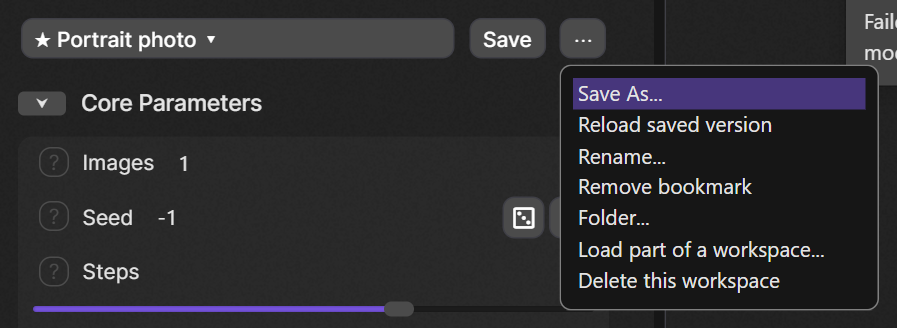
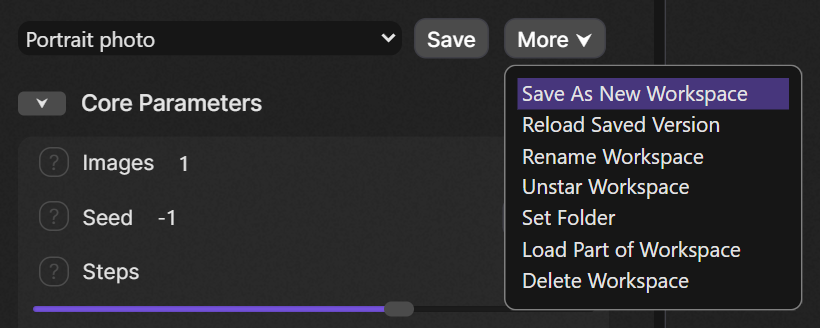
Make the picker a standard SwarmUI dropdown; match Swarm's wording and controls
The picker is now select.auto-dropdown with optgroups for Starred and folders, so it matches every theme. Removes the custom checkmark, star, dot and arrow glyphs and the New workspace row. Menu entries use Swarm's Title Case wording, bookmarks are called stars, and the menu button is More like Swarm's own. Drops the picker screenshot, which a native dropdown can't produce.

diff --git a/Assets/workspaces.js b/Assets/workspaces.js
@@ -1381,43 +1381,45 @@ class HartsyWorkspacesManager {
 
     /**
      * Builds the toolbar element and wires its buttons. Call only from ensureToolbar, which makes sure there is just one.
-     * The picker and the "..." menu are SwarmUI's own popovers (AdvancedPopover), opened on demand, so they match every theme.
+     * The picker is a plain SwarmUI dropdown (select.auto-dropdown) and the menu is SwarmUI's own popover (AdvancedPopover), so both follow every theme.
      * @returns {Element} The new toolbar, not yet placed on the page.
      */
     buildToolbar() {
         let toolbar = createDiv(null, 'hartsy-workspaces-toolbar');
         toolbar.innerHTML = '<div class="hartsy-workspaces-bar">'
-            + '<button class="basic-button hartsy-workspaces-picker" title="Choose a workspace to load">No workspace</button>'
+            + '<select class="auto-dropdown hartsy-workspaces-picker" autocomplete="off" title="Choose a workspace to load"></select>'
             + '<button class="basic-button hartsy-workspaces-save" title="Save the current settings (Shift+S)">Save</button>'
-            + '<span class="hartsy-workspaces-modified" title="The settings differ from the saved workspace" hidden>● Modified</span>'
-            + '<button class="basic-button hartsy-workspaces-more" title="More actions" aria-label="More workspace actions">⋯</button>'
+            + '<span class="hartsy-workspaces-modified" title="The settings differ from the saved workspace" hidden>Modified</span>'
+            + '<button class="basic-button hartsy-workspaces-more" title="More workspace actions">More &#x2B9F;</button>'
             + '</div>'
             + '<div class="parens hartsy-workspaces-status" role="status"></div>';
         toolbar.querySelector('.hartsy-workspaces-save').addEventListener('click', () => {
             this.saveCurrent();
         });
-        // A click on a button whose own popover is open closes it (SwarmUI does that before this runs), so remember on mousedown whether it was open, to toggle instead of reopening. A click on the other button just switches popovers.
-        let wire = (selector, popoverId, open) => {
-            let button = toolbar.querySelector(selector);
-            let wasOpen = false;
-            button.addEventListener('mousedown', () => {
-                wasOpen = this.isPopoverOpen() && this.activePopover.id == popoverId;
-            });
-            button.addEventListener('click', () => {
-                let skip = wasOpen;
-                wasOpen = false;
-                if (!skip && !this.busy) {
-                    open(button.getBoundingClientRect());
-                }
-            });
-        };
-        wire('.hartsy-workspaces-picker', 'hartsy_workspaces_picker', rect => this.showPopover('hartsy_workspaces_picker', this.pickerButtons(), true, rect));
-        wire('.hartsy-workspaces-more', 'hartsy_workspaces_menu', rect => this.showPopover('hartsy_workspaces_menu', this.menuButtons(), false, rect));
+        let picker = toolbar.querySelector('.hartsy-workspaces-picker');
+        picker.addEventListener('change', async () => {
+            await this.pickWorkspace(picker.value);
+            // Whatever happened (loaded, declined, failed), show the workspace the Generate tab is really attached to.
+            this.refreshToolbar();
+        });
+        // A click on the button while its popover is open closes it (SwarmUI does that before this runs), so remember on mousedown whether it was open, to toggle instead of reopening.
+        let more = toolbar.querySelector('.hartsy-workspaces-more');
+        let wasOpen = false;
+        more.addEventListener('mousedown', () => {
+            wasOpen = this.isPopoverOpen();
+        });
+        more.addEventListener('click', () => {
+            let skip = wasOpen;
+            wasOpen = false;
+            if (!skip && !this.busy) {
+                this.openMenu(more.getBoundingClientRect());
+            }
+        });
         return toolbar;
     }
 
     /**
-     * Returns whether one of this toolbar's popovers is currently open.
+     * Returns whether the toolbar's menu popover is currently open.
      * @returns {boolean} True if open.
      */
     isPopoverOpen() {
@@ -1425,80 +1427,112 @@ class HartsyWorkspacesManager {
     }
 
     /**
-     * Opens a SwarmUI popover under a toolbar button, closing any popover of this toolbar that is already open.
-     * @param {string} id Popover ID.
-     * @param {Array<Object>} buttons Entries in AdvancedPopover's format: { key, key_html, title, searchable, action }.
-     * @param {boolean} canSearch True to include SwarmUI's search box.
+     * Opens the "More" menu as a SwarmUI popover under its button.
      * @param {DOMRect} rect The bounds of the button to open under.
      */
-    showPopover(id, buttons, canSearch, rect) {
+    openMenu(rect) {
         if (this.isPopoverOpen()) {
             this.activePopover.remove();
         }
-        this.activePopover = new AdvancedPopover(id, buttons, canSearch, rect.x, rect.bottom + 4, document.body);
+        this.activePopover = new AdvancedPopover('hartsy_workspaces_menu', this.menuButtons(), false, rect.x, rect.bottom + 4, document.body);
     }
 
     /**
-     * Builds the picker's entries: bookmarked workspaces first, then by folder, then by name, followed by the actions that leave the list.
-     * The folder shows beside the name and is searchable. Typing in the search box and pressing Enter loads the first match.
-     * @returns {Array<Object>} The popover entries.
-     */
-    pickerButtons() {
-        let text = value => `${value || ''}`;
-        let sorted = this.workspaces.slice().sort((a, b) => (b.bookmarked ? 1 : 0) - (a.bookmarked ? 1 : 0) || text(a.folder).localeCompare(text(b.folder)) || text(a.name).localeCompare(text(b.name)));
-        let buttons = [];
-        for (let workspace of sorted) {
-            let folder = workspace.folder ? ` <span class="parens">- ${escapeHtml(workspace.folder)}</span>` : '';
-            buttons.push({
-                key: workspace.name,
-                searchable: `${workspace.name} ${text(workspace.folder)}`,
-                key_html: `${workspace.id == this.currentId ? '✓ ' : ''}${workspace.bookmarked ? '★ ' : ''}${escapeHtml(workspace.name)}${folder}`,
-                action: () => this.pickWorkspace(workspace.id)
-            });
-        }
-        if (this.currentId) {
-            buttons.push({ key: 'No workspace (keep the current settings)', action: () => this.pickWorkspace('') });
-        }
-        buttons.push({ key: '+ New workspace...', title: 'Save the current settings as a new workspace', action: () => this.saveNew(false) });
-        return buttons;
-    }
-
-    /**
-     * Builds the "..." menu's entries. Entries that need a selected workspace are left out when none is selected.
+     * Builds the "More" menu's entries. Entries that need a selected workspace are left out when none is selected.
      * @returns {Array<Object>} The popover entries.
      */
     menuButtons() {
         let entry = this.getCurrentEntry();
-        let buttons = [{ key: 'Save As...', title: 'Save the current settings as a copy of this workspace', action: () => this.saveNew(true) }];
+        let buttons = [{ key: 'Save As New Workspace', title: 'Save the current settings as a new workspace, keeping this one as it is', action: () => this.saveNew(true) }];
         if (entry) {
-            buttons.push({ key: 'Reload saved version', title: 'Throw away unsaved changes and load the latest saved version of this workspace', action: () => this.loadWorkspace(this.currentId) });
-            buttons.push({ key: 'Rename...', action: () => this.renameCurrent() });
-            buttons.push({ key: entry.bookmarked ? 'Remove bookmark' : 'Bookmark', title: 'Bookmarked workspaces are listed first', action: () => this.toggleBookmark() });
-            buttons.push({ key: 'Folder...', title: 'Set this workspace\'s folder', action: () => this.editOrganization() });
+            buttons.push({ key: 'Reload Saved Version', title: 'Throw away unsaved changes and load the latest saved version of this workspace', action: () => this.loadWorkspace(this.currentId) });
+            buttons.push({ key: 'Rename Workspace', action: () => this.renameCurrent() });
+            buttons.push({ key: entry.bookmarked ? 'Unstar Workspace' : 'Star Workspace', title: 'Starred workspaces are listed first', action: () => this.toggleBookmark() });
+            buttons.push({ key: 'Set Folder', title: 'Set this workspace\'s folder', action: () => this.editOrganization() });
         }
         if (this.workspaces.length > 0) {
-            buttons.push({ key: 'Load part of a workspace...', title: 'Load only some parts of a workspace and leave everything else as it is', action: () => this.showPartialDialog() });
+            buttons.push({ key: 'Load Part of Workspace', title: 'Load only some parts of a workspace and leave everything else as it is', action: () => this.showPartialDialog() });
         }
         if (entry) {
-            buttons.push({ key: 'Delete this workspace', title: 'Delete this workspace. Your current settings stay as they are', action: () => this.deleteCurrent() });
+            buttons.push({ key: 'Delete Workspace', title: 'Delete this workspace. Your current settings stay as they are', action: () => this.deleteCurrent() });
         }
         return buttons;
     }
 
     /**
-     * Redraws the toolbar's picker label, button states, and modified marker from the current state.
+     * Fills the picker dropdown: "No workspace", then starred workspaces, then one group per folder, then unfiled ones, and selects the current workspace.
+     * With no stars and no folders the list is flat. Folder names are free text, so groups are kept in a Map, not a plain object.
+     * @param {Element} select The picker's select element.
+     */
+    fillPicker(select) {
+        select.innerHTML = '';
+        let addOption = (parent, value, text) => {
+            let option = document.createElement('option');
+            option.value = value;
+            option.textContent = text;
+            parent.append(option);
+        };
+        addOption(select, '', 'No workspace');
+        let sorted = this.workspaces.slice().sort((a, b) => `${a.name}`.localeCompare(`${b.name}`));
+        let starred = [];
+        let unfiled = [];
+        let folders = new Map();
+        for (let workspace of sorted) {
+            let folder = `${workspace.folder || ''}`;
+            if (workspace.bookmarked) {
+                starred.push(workspace);
+            }
+            else if (folder == '') {
+                unfiled.push(workspace);
+            }
+            else {
+                if (!folders.has(folder)) {
+                    folders.set(folder, []);
+                }
+                folders.get(folder).push(workspace);
+            }
+        }
+        let addGroup = (label, items) => {
+            if (items.length == 0) {
+                return;
+            }
+            let group = document.createElement('optgroup');
+            group.label = label;
+            for (let workspace of items) {
+                addOption(group, workspace.id, workspace.name);
+            }
+            select.append(group);
+        };
+        let folderNames = Array.from(folders.keys()).sort((a, b) => a.localeCompare(b));
+        if (starred.length == 0 && folderNames.length == 0) {
+            for (let workspace of unfiled) {
+                addOption(select, workspace.id, workspace.name);
+            }
+        }
+        else {
+            addGroup('Starred', starred);
+            for (let folder of folderNames) {
+                addGroup(folder, folders.get(folder));
+            }
+            addGroup('Unfiled', unfiled);
+        }
+        select.value = this.currentId || '';
+        if (select.selectedIndex < 0) {
+            select.value = '';
+        }
+    }
+
+    /**
+     * Redraws the toolbar's picker, button states, and modified marker from the current state.
      */
     refreshToolbar() {
         let toolbar = document.querySelector('.hartsy-workspaces-toolbar');
         if (!toolbar) {
             return;
         }
-        let entry = this.getCurrentEntry();
-        let hasCurrent = entry != null;
-        let label = hasCurrent ? `${entry.bookmarked ? '★ ' : ''}${entry.name}` : 'No workspace';
+        let hasCurrent = this.getCurrentEntry() != null;
         let picker = toolbar.querySelector('.hartsy-workspaces-picker');
-        picker.textContent = `${label} ▾`;
-        picker.title = hasCurrent ? `${label}. Choose another workspace to load` : 'Choose a workspace to load';
+        this.fillPicker(picker);
         picker.disabled = this.busy;
         toolbar.querySelector('.hartsy-workspaces-more').disabled = this.busy;
         let save = toolbar.querySelector('.hartsy-workspaces-save');

diff --git a/Assets/workspaces.css b/Assets/workspaces.css
@@ -12,10 +12,6 @@
 .hartsy-workspaces-picker {
     flex: 1;
     min-width: 0;
-    overflow: hidden;
-    text-overflow: ellipsis;
-    white-space: nowrap;
-    text-align: left;
 }
 
 .hartsy-workspaces-modified {

diff --git a/README.md b/README.md
@@ -10,7 +10,7 @@ Early release. Everything described below works. It has been tested by hand in t
 
 ## Using it
 
-One row sits above the parameter list on the Generate tab: **[ workspace picker ] [ Save ] [ ... ]**.
+One row sits above the parameter list on the Generate tab: **[ workspace dropdown ] [ Save ] [ More ]**.
 
 ![The toolbar](docs/images/toolbar.png)
 
@@ -18,21 +18,21 @@ When the settings differ from the saved workspace, a "Modified" marker appears:
 
 ![The toolbar with unsaved changes](docs/images/toolbar-modified.png)
 
-- **Picker**: click it to open SwarmUI's searchable list of your workspaces: bookmarked ones first, then by folder, with the folder shown beside the name. Type to filter by name or folder, and press Enter to load the first match. Choosing a workspace replaces your current settings completely, and asks first if the current workspace has unsaved changes. "+ New workspace..." at the bottom saves the current settings under a new name.
+- **Picker**: a standard SwarmUI dropdown of your workspaces, grouped as Starred, then one group per folder, then Unfiled (a flat list if you use neither). Choosing a workspace replaces your current settings completely, and asks first if the current workspace has unsaved changes. With no workspace selected, Save asks for a name and creates one.
 - **Save** writes the current settings into the selected workspace (or asks for a name if none is selected). Shift+S does the same, except while you are typing in a field or a dialog or the image editor is open. If the workspace was changed elsewhere, nothing is overwritten and you are told.
 - **Modified** appears when the settings differ from the selected workspace, and goes away only after a successful save or load.
-- **...** holds everything else: Save As, Reload saved version, Rename, Bookmark, Folder, Load part of a workspace, and Delete.
+- **More** holds everything else: Save As New Workspace, Reload Saved Version, Rename Workspace, Star Workspace, Set Folder, Load Part of Workspace, and Delete Workspace.
 
-![The picker](docs/images/picker.png) ![The ... menu](docs/images/menu.png)
+![The More menu](docs/images/menu.png)
 
 ### More detail
 
-- **Save As** copies the folder (not the bookmark). **Reload saved version** throws away unsaved changes and loads the latest saved version, for example after it was changed elsewhere. **Delete** leaves your current settings as they are.
+- **Save As New Workspace** copies the folder (not the star). **Reload Saved Version** throws away unsaved changes and loads the latest saved version, for example after it was changed elsewhere. **Delete Workspace** leaves your current settings as they are.
 - **Load part of a workspace** opens a dialog to load only some parts: the model, the presets, or any parameter group. Only the ticked parts change, and everything else stays as it is. If you tick a group that is switched on inside a parent group that is off, the parent is switched on too, and you are told. The settings then count as modified, because they no longer match the workspace.
 
 ![Partial load dialog](docs/images/partial-load-dialog.png)
 
-- **Bookmark** lists a workspace first. **Folder** sets a folder name (at most 100 characters). Saving settings never changes a workspace's folder or bookmark.
+- **Star Workspace** lists a workspace first. **Set Folder** sets a folder name (at most 100 characters). Saving settings never changes a workspace's folder or star.
 - **Drafts**: while the selected workspace has unsaved changes, a draft of them is kept in your browser a couple of seconds after each change. If you reload the page or close the tab, a notice below the toolbar offers to **Restore** or **Discard** it. Restoring loads the workspace first and then puts the draft on top, so it shows as unsaved changes and never overwrites the saved workspace. Each browser tab keeps its own draft, and a draft from a tab that is still open is never offered.
 
 ## What a workspace saves, and what loading does

diff --git a/AGENTS.md b/AGENTS.md
@@ -44,7 +44,7 @@ Named workspaces for the SwarmUI Generate tab. A workspace is a snapshot of para
 
 - Must work on current Chrome, Firefox, Safari and on modern mobile browsers.
 - JS: `let`, never `var` or `const`; full braced blocks; `else {` on its own line, never `} else {`; `/** ... */` doc on every function; `for (...)` loops rather than `forEach`; use `Map` for user-keyed lookups (a folder named `__proto__` must not break anything).
-- CSS: almost none. Reuse SwarmUI's components: popovers via `AdvancedPopover` (search, scrolling and dismissal included), dialogs via the standard `modal` markup, buttons via `basic-button`, soft text via `parens`. Custom CSS is limited to laying out the toolbar row and two notices. Colors come only from SwarmUI theme variables (`--text`, `--emphasis`, `--background-soft`, ...), never hex, rgb or shadows. Class selectors only, never `#id`.
+- CSS: almost none. Reuse SwarmUI's own components and wording: the picker is a plain `select.auto-dropdown`, menus are `AdvancedPopover`, dialogs use the standard `modal` markup, buttons are `basic-button`, soft text is `parens`, and items are "starred", not "bookmarked". No custom checkmarks, stars or arrows. Custom CSS is limited to laying out the toolbar row and two notices. Colors come only from SwarmUI theme variables, never hex, rgb or shadows. Class selectors only, never `#id`.
 - New behavior goes into `HartsyWorkspacesManager`, not free functions. Check `util.js` and `site.js` in SwarmUI for an existing helper before writing one.
 - SwarmUI's `triggerChangeFor` dispatches non-bubbling events, so modified tracking uses capturing document listeners. Do not switch to bubbling listeners.
 - Escape all user-provided text (`escapeHtml`) before putting it in HTML. Names and folders are user input.
